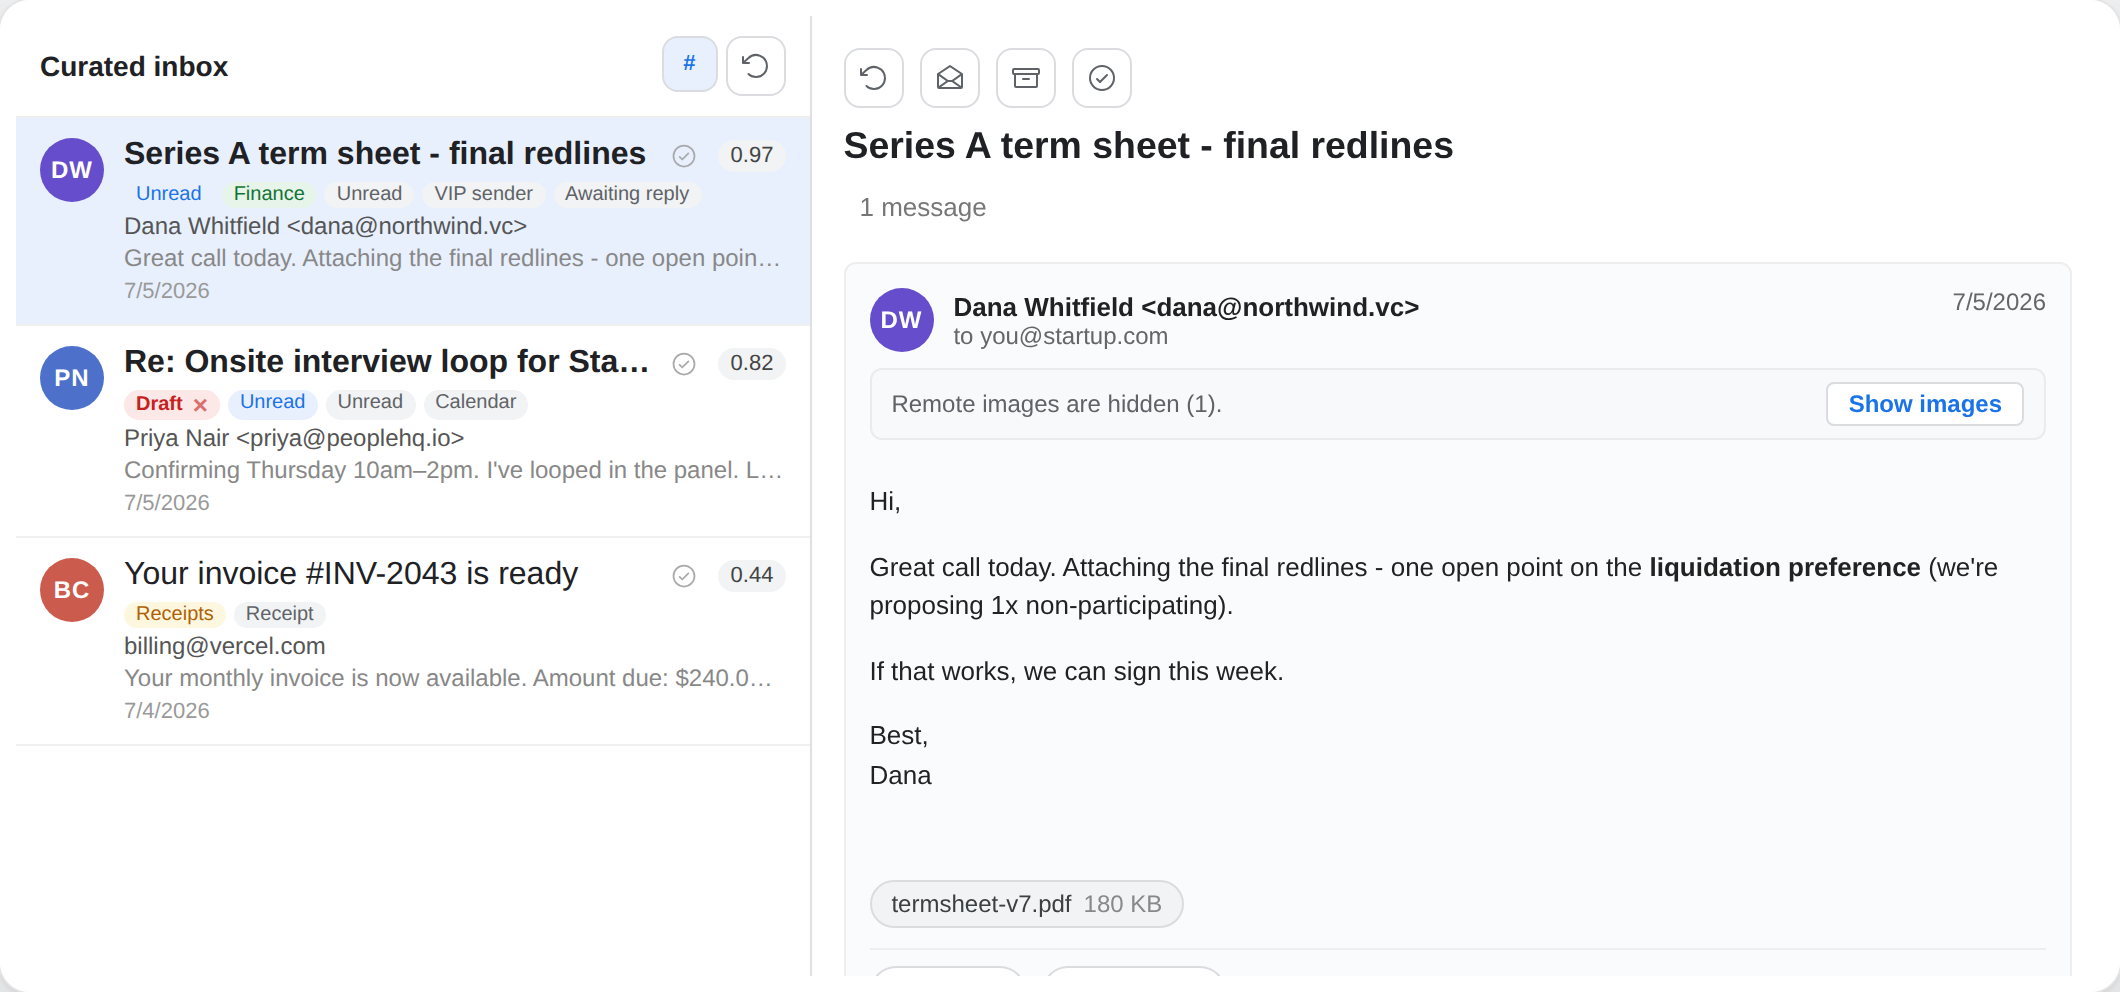
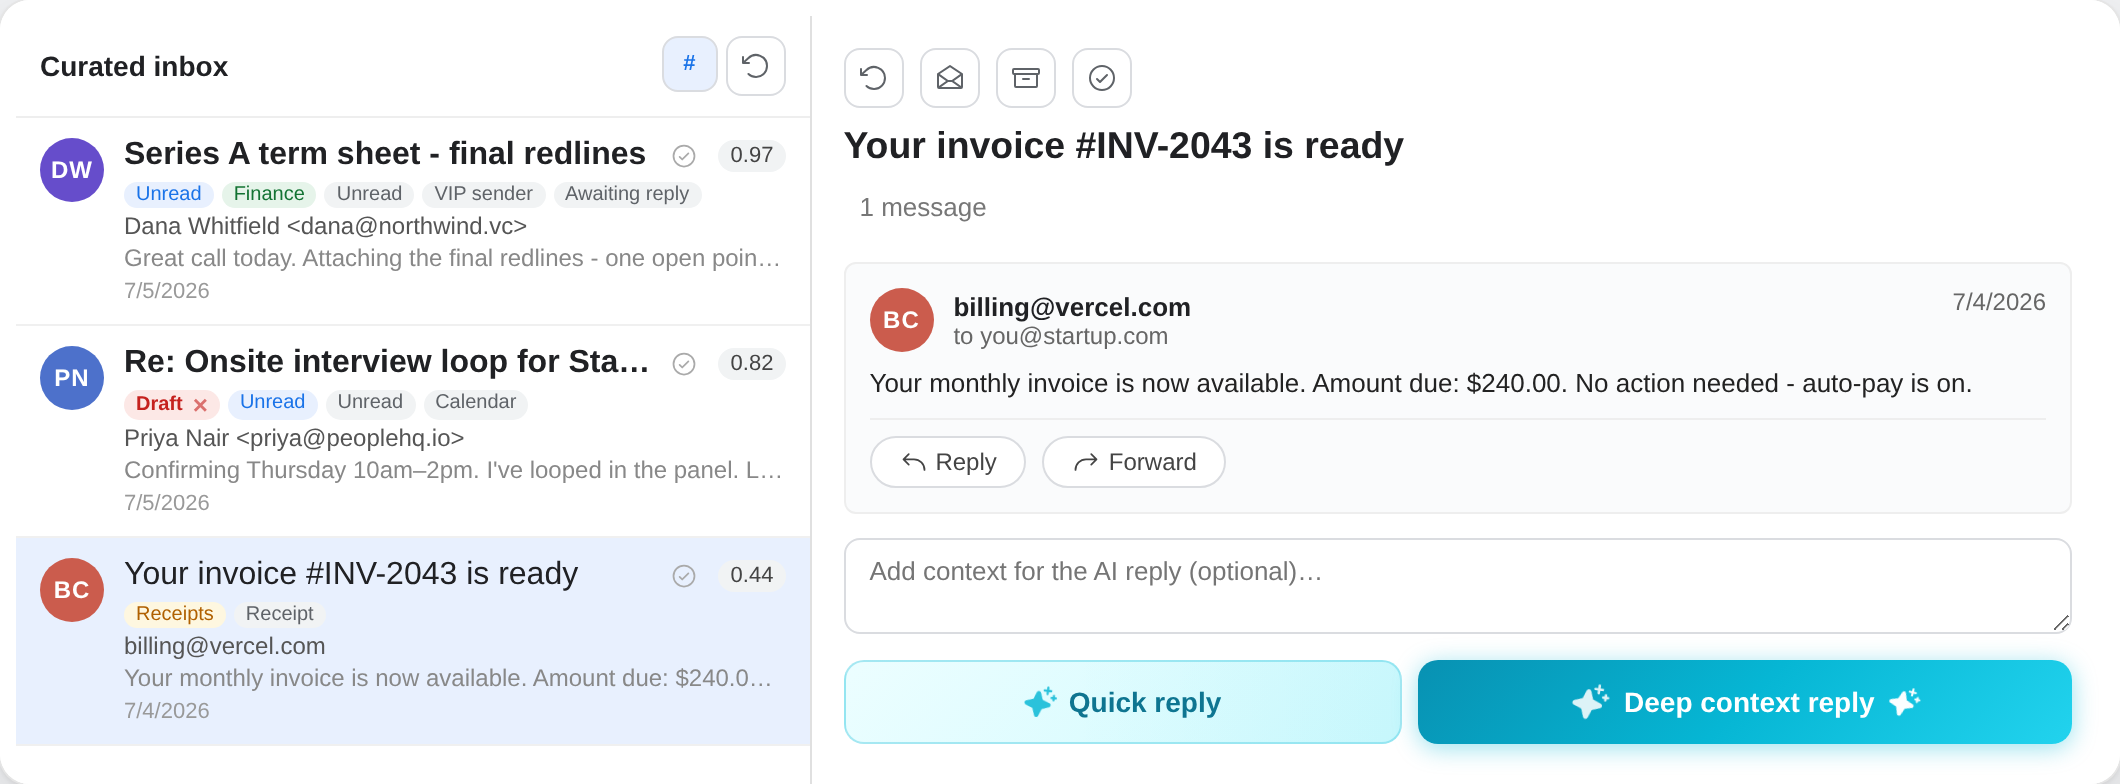
🔨 Use the invoice thread in the curated inbox screenshot
Opening the receipt thread instead of the term sheet shows the full reader
without clipping: reply/forward plus the quick and deep-context AI reply
actions. Caption updated to match.

Claude-Session: https://claude.ai/code/session_013hRqNXBd5gzqFjhSRMv7YA

diff --git a/README.md b/README.md
@@ -121,7 +121,7 @@ Four MCP Apps ship in the box. Each is a React bundle served as a `ui://` resour
 
 | | |
 |:--|:--|
-| **`gmail_inbox`** - curated inbox with importance scores, labels and a thread reader (remote images blocked by default)<br><br><img src="media/mcp-ui/gmail-inbox.png" alt="gmail_inbox MCP App: curated inbox list beside an open thread"> | **`gmail_composer`** - draft editor with the conversation in context, attachments, and send / save / discard<br><br><img src="media/mcp-ui/gmail-composer.png" alt="gmail_composer MCP App: draft editor with To, Subject and body fields"> |
+| **`gmail_inbox`** - curated inbox with importance scores and labels, beside a thread reader with inline reply, forward, and AI-drafted replies<br><br><img src="media/mcp-ui/gmail-inbox.png" alt="gmail_inbox MCP App: curated inbox list beside an opened invoice thread"> | **`gmail_composer`** - draft editor with the conversation in context, attachments, and send / save / discard<br><br><img src="media/mcp-ui/gmail-composer.png" alt="gmail_composer MCP App: draft editor with To, Subject and body fields"> |
 | **`pdf_signer`** - pdf.js viewer with the signature field highlighted and a type-your-name signing ceremony<br><br><img src="media/mcp-ui/pdf-signer.png" alt="pdf_signer MCP App: NDA with a Sign here highlight and signing footer"> | **`settings`** - connected Gmail account, inbox watch state, and webhook endpoints with secret rotation<br><br><img src="media/mcp-ui/settings.png" alt="settings MCP App: Gmail account status and webhook endpoint list"> |
 
 Screenshots are rendered from the committed app bundles by the fixture host in `mcp_server/dev_preview/` - no server, Gmail account, or OAuth involved. Reproduce any of them with `make preview_app APP=<name>`.
